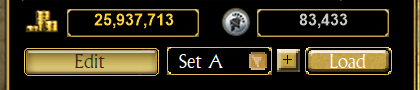
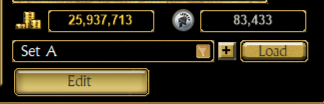
fix(loadouts): the bar takes the whole width, the Edit button goes below
The Edit button of the character editor shared the row under the gold with the
loadout bar and left the drop-down little room: a loadout name was cut after a
few letters.

The bar now spans the statistics panel's width under the gold, and the Edit
button sits on the line below it. Checked headless at zoom 0.9, 1, 1.1 and 1.2
(125 % DPI), at 96 dpi, and in French with Verdana: the button stays inside the
stash panel and nothing overlaps. The documentation picture is retaken.

diff --git a/src/TQVaultAE.GUI/Components/Panels/StashPanel.PlayerInfo.cs b/src/TQVaultAE.GUI/Components/Panels/StashPanel.PlayerInfo.cs
@@ -50,7 +50,7 @@ public partial class StashPanel
 	private readonly List<Font> _statsFonts = [];
 	private float _statsScale;
 
-	/// <summary>The loadouts of the character, under the gold bar (right of the Edit button when it shows).</summary>
+	/// <summary>The loadouts of the character, under the gold bar, the whole width of the statistics panel.</summary>
 	private LoadoutBar? _loadoutBar;
 
 	/// <summary>The loadouts file the bar shows.</summary>
@@ -206,7 +206,7 @@ public partial class StashPanel
 
 	/// <summary>
 	/// Places the statistics panel on the box of the equipment background, at the game's size times the scale, with the
-	/// Edit button under its gold bar; its fonts follow the scale.
+	/// loadout bar under its gold bar and the Edit button under the loadout bar; its fonts follow the scale.
 	/// </summary>
 	private void LayoutStatsPanel(CharacterStatsPanel panel)
 	{
@@ -248,18 +248,16 @@ public partial class StashPanel
 		if (panel.Location != location)
 			panel.Location = location;
 
-		var button = this._editButton!;
-		var buttonAt = new Point(location.X, panel.Bottom + Convert.ToInt32(4 * scale));
-		if (button.Location != buttonAt)
-			button.Location = buttonAt;
-
-		// The loadout bar: the rest of the row under the gold bar, level with the Edit button's middle.
-		int gap = Convert.ToInt32(6 * scale);
-		int barHeight = LoadoutBar.HeightAt(scale);
-		int left = this.USettings.AllowCharacterEdit ? button.Right + gap : location.X;
-		var barBounds = new Rectangle(left, buttonAt.Y + Math.Max(0, (button.Height - barHeight) / 2), Math.Max(barHeight * 4, panel.Right - left), barHeight);
+		// The loadout bar: the whole width of the statistics panel, under its gold bar; the Edit button on the line below.
+		int gap = Convert.ToInt32(4 * scale);
+		var barBounds = new Rectangle(location.X, panel.Bottom + gap, panel.Width, LoadoutBar.HeightAt(scale));
 		if (this._loadoutBar!.Bounds != barBounds)
 			this._loadoutBar.Bounds = barBounds;
+
+		var button = this._editButton!;
+		var buttonAt = new Point(location.X, barBounds.Bottom + gap);
+		if (button.Location != buttonAt)
+			button.Location = buttonAt;
 	}
 
 	/// <summary>What the statistics panel shows of the character, from its save: nothing can be changed here.</summary>

diff --git a/documentation/LOADOUTS.md b/documentation/LOADOUTS.md
@@ -5,7 +5,8 @@ weapon set is in hand. Save the gear you wear for one build, wear another, and c
 
 ## Where
 
-On the **Equipment** tab, under the gold of the character statistics, right of the **Edit** button when it shows:
+On the **Equipment** tab, under the gold of the character statistics, the whole width of the statistics (the **Edit**
+button of the character editor, when it shows, is on the line below):
 
 ![The loadout bar under the gold](loadouts/loadout_bar.png)
 
